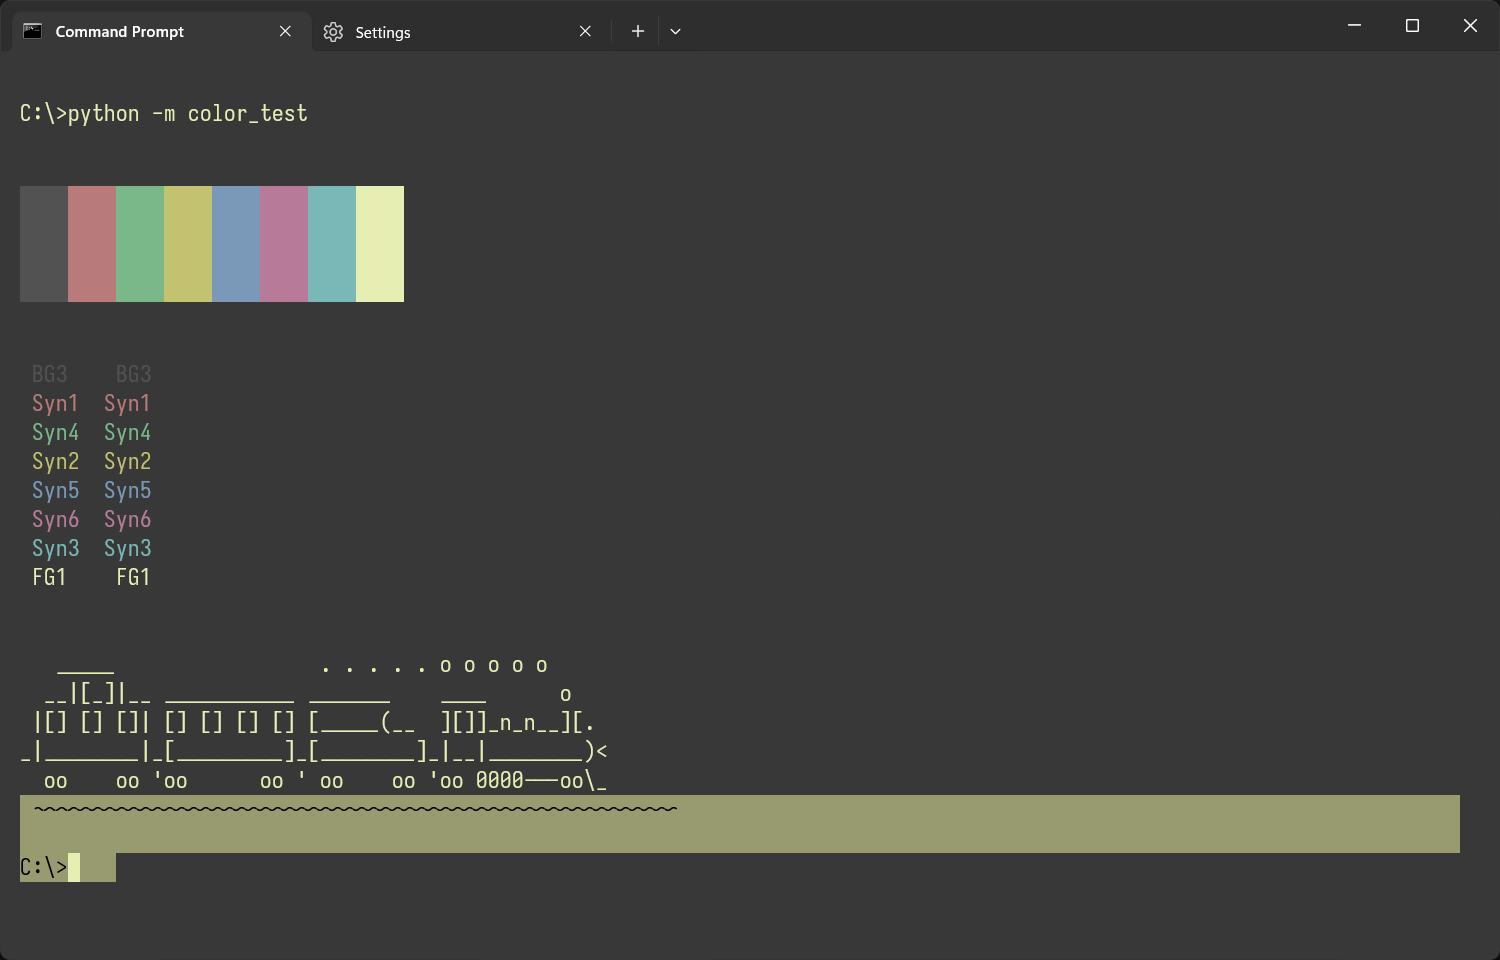
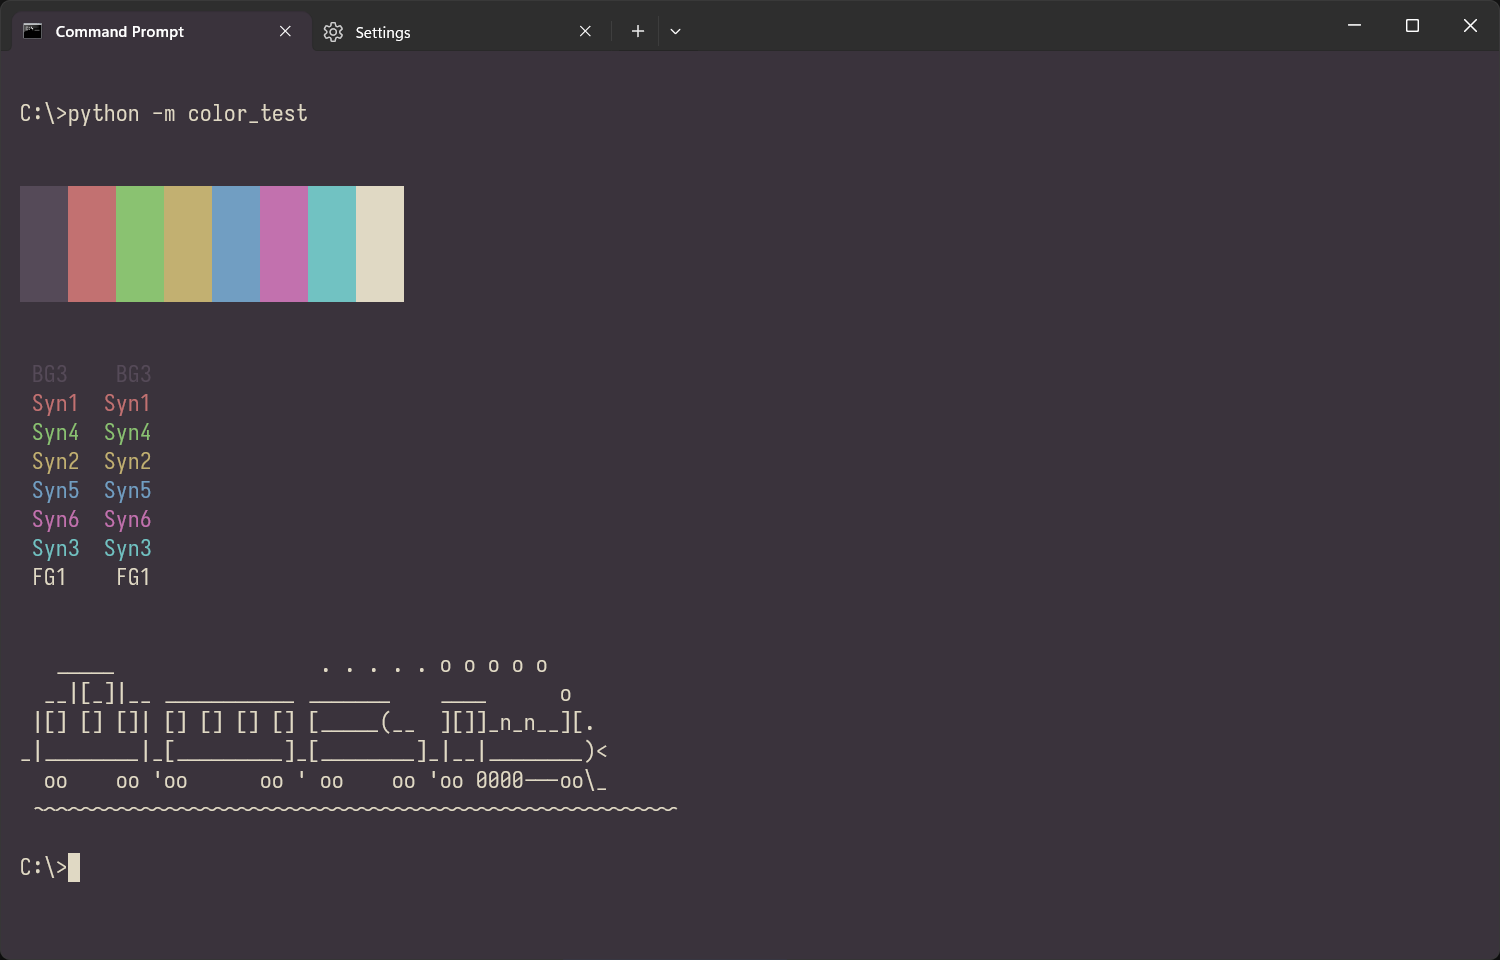
create rage theme, rework zen theme

Changed region(s): [[0.0, 0.8125, 0.9813, 0.9375], [0.0613, 0.1875, 0.1227, 0.3125]]

diff --git a/scheme_files/other/rage.html b/scheme_files/other/rage.html
@@ -17,7 +17,7 @@ this template is meant as a reference sheet for your color theme
 	</head>
 	<body>
 		<br>
-		<h3>Zen - Red</h3>
+		<h3>Rage</h3>
 		<table>
 			<tr>
 				<th>DESC</th>
@@ -26,49 +26,49 @@ this template is meant as a reference sheet for your color theme
 			</tr>
 			<tr>
 				<td>Background - 1st level<br><a>UI: default text bg</a></td>
-				<td>#383838</td>
-				<td style="background-color:#383838;"></td>
+				<td>#372E42</td>
+				<td style="background-color:#372E42;"></td>
 			</tr>
 			<tr>
 				<td>Background - 2nd level<br><a>UI: inactive tab or file bg, 2nd level surfaces bg</a></td>
-				<td>#454545</td>
-				<td style="background-color:#454545;"></td>
+				<td>#433850</td>
+				<td style="background-color:#433850;"></td>
 			</tr>
 			<tr>
 				<td>Background - 3rd level<br><a>UI: separators, other bg symbols</a></td>
-				<td>#525252</td>
-				<td style="background-color:#525252;"></td>
+				<td>#504360</td>
+				<td style="background-color:#504360;"></td>
 			</tr>
 			<tr>
 				<td>Foreground - 1st level<br><a>UI: cursor
                 <br>SYNTAX: default text</a></td>
-				<td>#eedfb4</td>
-				<td style="background-color:#eedfb4;"></td>
+				<td>#d0c2df</td>
+				<td style="background-color:#d0c2df;"></td>
 			</tr>
 			<tr>
 				<td>Foreground - 2nd level<br><a>UI: 2nd level surfaces fg, inactive tab or file fg</td>
-				<td>#cec2a1</td>
-				<td style="background-color:#cec2a1;"></td>
+				<td>#b7a2cf</td>
+				<td style="background-color:#b7a2cf;"></td>
 			</tr>
 			<tr>
 				<td>Foreground - 3rd level<br><a>UI: fold, line numbers<br>SYNTAX: comments</a></td>
-				<td>#c4beab</td>
-				<td style="background-color:#c4beab;"></td>
+				<td>#b6aac4</td>
+				<td style="background-color:#b6aac4;"></td>
 			</tr>
 			<tr>
 				<td>Highlight - 1st level<br><a>UI: alternative marks</a></td>
-				<td>#b08d95</td>
-				<td style="background-color:#b08d95;"></td>
+				<td>#b08d9f</td>
+				<td style="background-color:#b08d9f;"></td>
 			</tr>	
 			<tr>
 				<td>Highlight - 2nd level<br><a>UI: selection, search marks, fold marks</a></td>
-				<td>#9b6f7a</td>
-				<td style="background-color:#9b6f7a;"></td>
+				<td>#9b6e85</td>
+				<td style="background-color:#9b6e85;"></td>
 			</tr>	
 			<tr>
 				<td>Highlight - 3rd level<br><a>UI: current line</a></td>
-				<td>#7e5861</td>
-				<td style="background-color:#7e5861;"></td>
+				<td>#7E596c</td>
+				<td style="background-color:#7E596c;"></td>
 			</tr>
 		</table>
 		<br>
@@ -83,35 +83,35 @@ this template is meant as a reference sheet for your color theme
 			<tr>
 				<td>syntax 1<br><a>UI: change history modified, alert, error
                 <br>SYNTAX: macro, methods, functions, symbols (question mark, shebang, etc.)<br>TERMINAL: red</a></td>
-				<td>#b87a7a</td>
-				<td style="background-color:#b87a7a;"></td>
+				<td>#CC66A2</td>
+				<td style="background-color:#CC66A2;"></td>
 			</tr>
 			<tr>
 				<td>syntax 2<br><a>UI: change history revert origin, change history revert modified, warnings
                 <br>SYNTAX: strings, char, regex, verbatim<br>TERMINAL: yellow</a></td>
-				<td>#c2c270</td>
-				<td style="background-color:#c2c270;"></td>
+				<td>#CCB366</td>
+				<td style="background-color:#CCB366;"></td>
 			</tr>
 			<tr>
 				<td>syntax 3<br><a>SYNTAX: opertors, variables, identifiers<br>TERMINAL: cyan</a></td>
-				<td>#7ab8b8</td>
-				<td style="background-color:#7ab8b8;"></td>
+				<td>#66CBCC</td>
+				<td style="background-color:#66CBCC;"></td>
 			</tr>
 			<tr>
 				<td>syntax 4<br><a>UI: change history saved
                 <br>SYNTAX: conditionals, keywords, tags, commands, instructions<br>TERMINAL: green</a></td>
-				<td>#7ab88a</td>
-				<td style="background-color:#7ab88a;"></td>
+				<td>#9CCC66</td>
+				<td style="background-color:#9CCC66;"></td>
 			</tr>
 			<tr>
 				<td>syntax 5<br><a>SYNTAX: keys, types, class, groups, sections, preprocessor<br>TERMINAL: blue</a></td>
-				<td>#7a99b8</td>
-				<td style="background-color:#7a99b8;"></td>
+				<td>#8866CC</td>
+				<td style="background-color:#8866CC;"></td>
 			</tr>
 			<tr>
 				<td>syntax 6<br><a>SYNTAX: qualifier, numbers, booleans, attributes<br>TERMINAL: magenta (purple)</a></td>
-				<td>#b87a99</td>
-				<td style="background-color:#b87a99;"></td>
+				<td>#BB66CC</td>
+				<td style="background-color:#BB66CC;"></td>
 			</tr>
 		</table>
 		<br>

diff --git a/scheme_files/other/zen.html b/scheme_files/other/zen.html
@@ -26,49 +26,49 @@ this template is meant as a reference sheet for your color theme
 			</tr>
 			<tr>
 				<td>Background - 1st level<br><a>UI: default text bg</a></td>
-				<td>#383838</td>
-				<td style="background-color:#383838;"></td>
+				<td>#3A333C</td>
+				<td style="background-color:#3A333C;"></td>
 			</tr>
 			<tr>
 				<td>Background - 2nd level<br><a>UI: inactive tab or file bg, 2nd level surfaces bg</a></td>
-				<td>#454545</td>
-				<td style="background-color:#454545;"></td>
+				<td>#483F4B</td>
+				<td style="background-color:#483F4B;"></td>
 			</tr>
 			<tr>
 				<td>Background - 3rd level<br><a>UI: separators, other bg symbols</a></td>
-				<td>#525252</td>
-				<td style="background-color:#525252;"></td>
+				<td>#554A58</td>
+				<td style="background-color:#554A58;"></td>
 			</tr>
 			<tr>
 				<td>Foreground - 1st level<br><a>UI: cursor
                 <br>SYNTAX: default text</a></td>
-				<td>#e7eeb4</td>
-				<td style="background-color:#e7eeb4;"></td>
+				<td>#E0D9C4</td>
+				<td style="background-color:#E0D9C4;"></td>
 			</tr>
 			<tr>
 				<td>Foreground - 2nd level<br><a>UI: 2nd level surfaces fg, inactive tab or file fg</td>
-				<td>#cacfa1</td>
-				<td style="background-color:#cacfa1;"></td>
+				<td>#C3BDAC</td>
+				<td style="background-color:#C3BDAC;"></td>
 			</tr>
 			<tr>
 				<td>Foreground - 3rd level<br><a>UI: fold, line numbers<br>SYNTAX: comments</a></td>
-				<td>#c2c5ab</td>
-				<td style="background-color:#c2c5ab;"></td>
+				<td>#BDBAB2</td>
+				<td style="background-color:#BDBAB2;"></td>
 			</tr>
 			<tr>
 				<td>Highlight - 1st level<br><a>UI: alternative marks</a></td>
-				<td>#adb08d</td>
-				<td style="background-color:#adb08d;"></td>
+				<td>#A5A195</td>
+				<td style="background-color:#A5A195;"></td>
 			</tr>	
 			<tr>
 				<td>Highlight - 2nd level<br><a>UI: selection, search marks, fold marks</a></td>
-				<td>#989b6f</td>
-				<td style="background-color:#989b6f;"></td>
+				<td>#8F8A7B</td>
+				<td style="background-color:#8F8A7B;"></td>
 			</tr>	
 			<tr>
 				<td>Highlight - 3rd level<br><a>UI: current line</a></td>
-				<td>#7c7e58</td>
-				<td style="background-color:#7c7e58;"></td>
+				<td>#746F62</td>
+				<td style="background-color:#746F62;"></td>
 			</tr>
 		</table>
 		<br>
@@ -83,35 +83,35 @@ this template is meant as a reference sheet for your color theme
 			<tr>
 				<td>syntax 1<br><a>UI: change history modified, alert, error
                 <br>SYNTAX: macro, methods, functions, symbols (question mark, shebang, etc.)<br>TERMINAL: red</a></td>
-				<td>#b87a7a</td>
-				<td style="background-color:#b87a7a;"></td>
+				<td>#C27171</td>
+				<td style="background-color:#C27171;"></td>
 			</tr>
 			<tr>
 				<td>syntax 2<br><a>UI: change history revert origin, change history revert modified, warnings
                 <br>SYNTAX: strings, char, regex, verbatim<br>TERMINAL: yellow</a></td>
-				<td>#c2c270</td>
-				<td style="background-color:#c2c270;"></td>
+				<td>#C2B071</td>
+				<td style="background-color:#C2B071;"></td>
 			</tr>
 			<tr>
 				<td>syntax 3<br><a>SYNTAX: opertors, variables, identifiers<br>TERMINAL: cyan</a></td>
-				<td>#7ab8b8</td>
-				<td style="background-color:#7ab8b8;"></td>
+				<td>#71C2C2</td>
+				<td style="background-color:#71C2C2;"></td>
 			</tr>
 			<tr>
 				<td>syntax 4<br><a>UI: change history saved
                 <br>SYNTAX: conditionals, keywords, tags, commands, instructions<br>TERMINAL: green</a></td>
-				<td>#7ab88a</td>
-				<td style="background-color:#7ab88a;"></td>
+				<td>#8AC271</td>
+				<td style="background-color:#8AC271;"></td>
 			</tr>
 			<tr>
 				<td>syntax 5<br><a>SYNTAX: keys, types, class, groups, sections, preprocessor<br>TERMINAL: blue</a></td>
-				<td>#7a99b8</td>
-				<td style="background-color:#7a99b8;"></td>
+				<td>#719EC2</td>
+				<td style="background-color:#719EC2;"></td>
 			</tr>
 			<tr>
 				<td>syntax 6<br><a>SYNTAX: qualifier, numbers, booleans, attributes<br>TERMINAL: magenta (purple)</a></td>
-				<td>#b87a99</td>
-				<td style="background-color:#b87a99;"></td>
+				<td>#C271AE</td>
+				<td style="background-color:#C271AE;"></td>
 			</tr>
 		</table>
 		<br>

diff --git a/doc/galery.md b/doc/galery.md
@@ -120,6 +120,10 @@ Low saturated ocean green background, combined with aqua blue foreground and a c
 The background should resemble the sky during dawn. This was combined with colors in pastel.<br><br>
 ![](/assets/pictures/text-editor/pastel-sky.png)<br><br>
 ![](/assets/pictures/terminal/pastel-sky.png)<br><br>
+**Rage**<br>
+A medium dark theme focussing on red and violet tones.<br><br>
+![](/assets/pictures/text-editor/rage.png)<br><br>
+![](/assets/pictures/terminal/rage.png)<br><br>
 **Retro**<br>
 A Dark theme following a traditional approach for terminal color schemes.<br><br>
 ![](/assets/pictures/text-editor/retro.png)<br><br>
@@ -133,7 +137,7 @@ My first theme I made. There was a rework since then, yet the base concept is st
 ![](/assets/pictures/text-editor/sakura-haruno-light.png)<br><br>
 ![](/assets/pictures/terminal/sakura-haruno-light.png)<br><br>
 **Snake**<br>
-Another theme with a medium light grey background, yet more colorful and a focus on green. If you like a toxic look, but need something clean for work.<br><br>
+Another theme with a medium dark grey background, yet more colorful and a focus on green. If you like a toxic look, but need something clean for work.<br><br>
 ![](/assets/pictures/text-editor/snake.png)<br><br>
 ![](/assets/pictures/terminal/snake.png)<br><br>
 **Solarpunk**<br>
@@ -156,11 +160,8 @@ Combined with some retro colors (I had the 80's in mind) you get a "synthetic" l
 ![](/assets/pictures/text-editor/vintage.png)<br><br>
 ![](/assets/pictures/terminal/vintage.png)<br><br>
 **Zen**<br>
-A medium light theme with a slightly burned color scheme and foreground.<br><br>
+A medium dark theme with a slightly burned look.<br><br>
 ![](/assets/pictures/text-editor/zen.png)<br><br>
 ![](/assets/pictures/terminal/zen.png)<br><br>
-*Red Version*<br>
-![](/assets/pictures/text-editor/zen-red.png)<br><br>
-![](/assets/pictures/terminal/zen-red.png)<br><br>
 
 **[Back](https://github.com/fm3chanic/color_schemes)**
